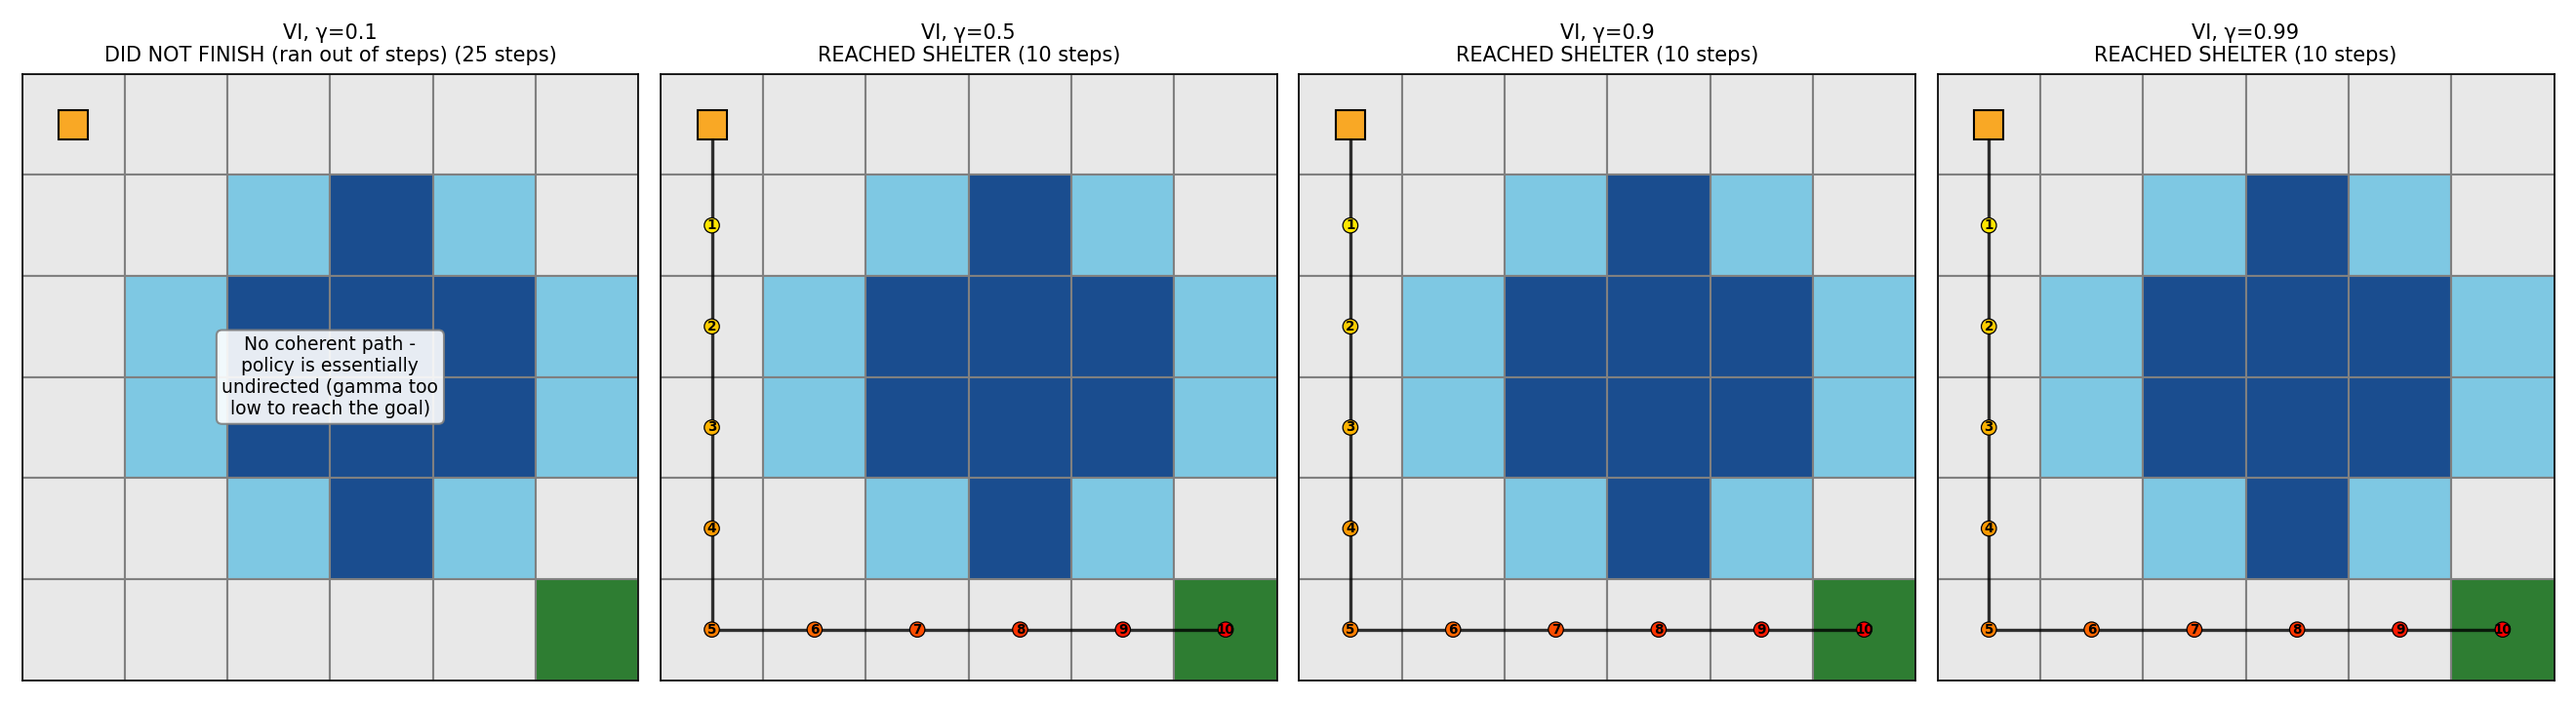
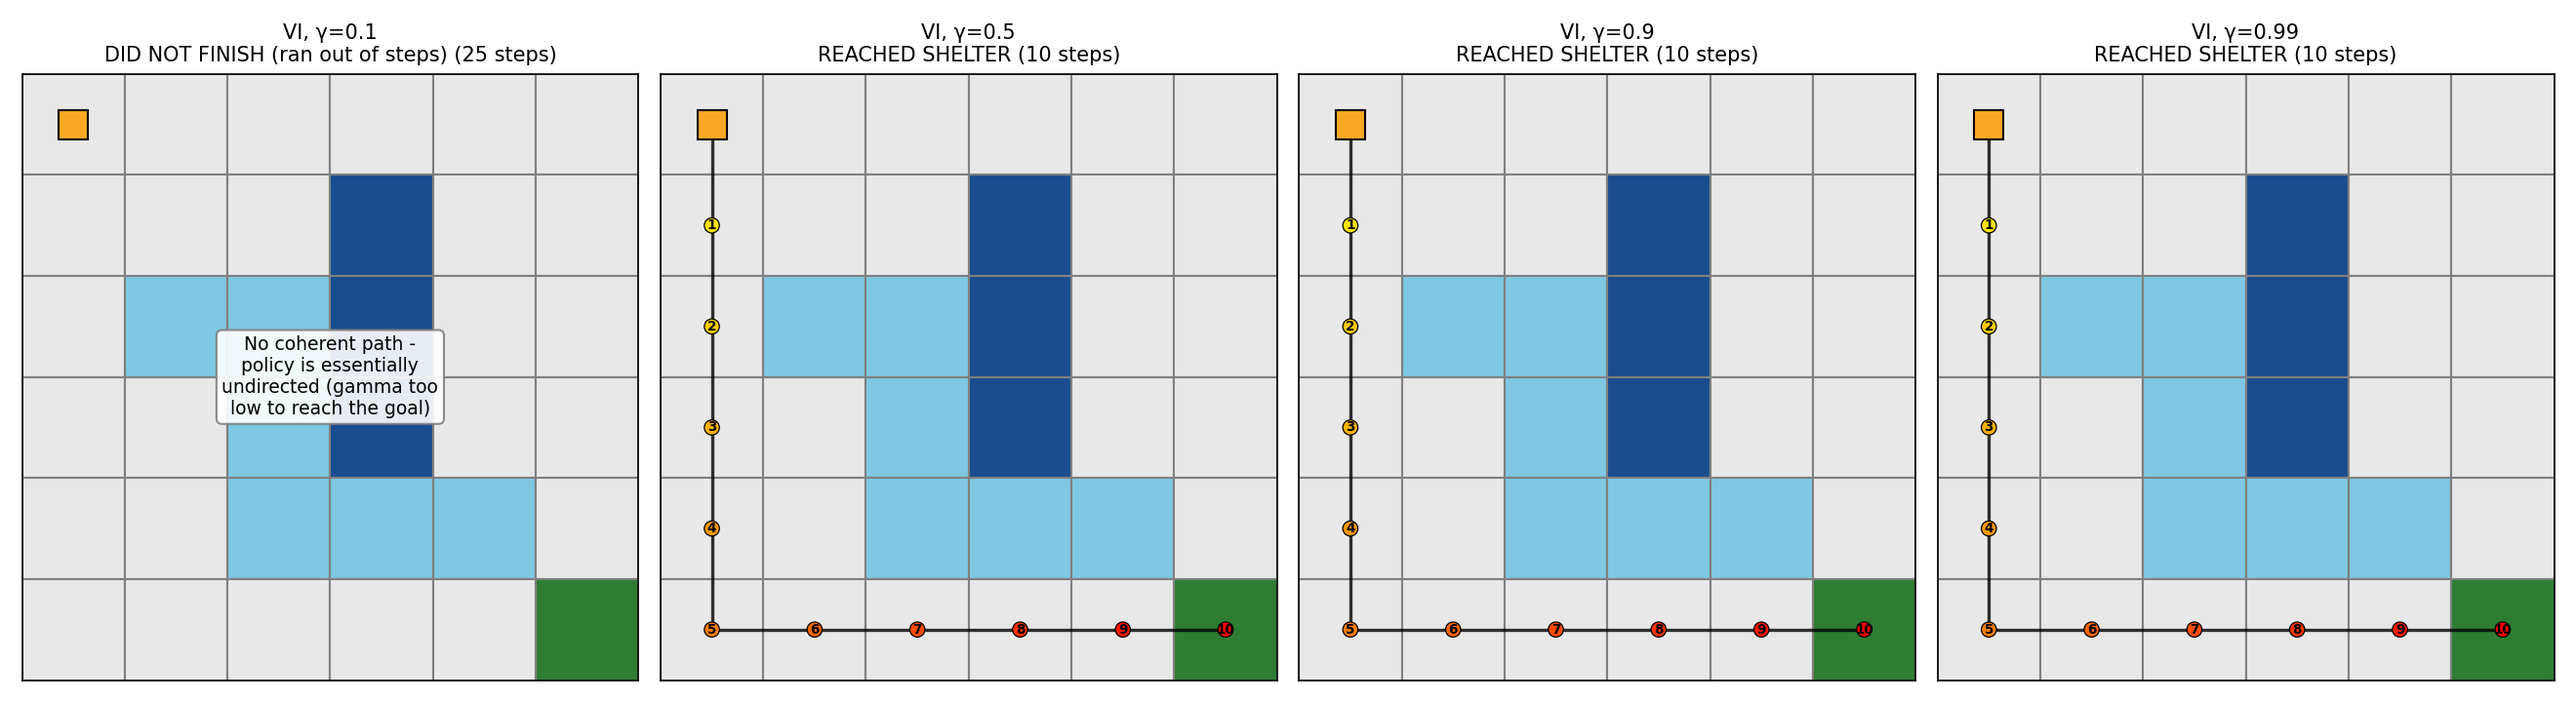
lab 4 grid modify

diff --git a/lab/lab_4/flood_rescue_rl.py b/lab/lab_4/flood_rescue_rl.py
@@ -38,8 +38,23 @@ GRID_SIZE = 6
 START = (0, 0)
 GOAL = (5, 5)
 
-DEEP_WATER = {(1, 3), (2, 2), (2, 3), (2, 4), (3, 2), (3, 3), (3, 4), (4, 3)}
-SHALLOW_WATER = {(1, 2), (1, 4), (2, 1), (2, 5), (3, 1), (3, 5), (4, 2), (4, 4)}
+DEEP_WATER = {
+    (1, 3),
+    (2, 3),
+    (3, 3)
+}
+
+SHALLOW_WATER = {
+    (2, 1),
+    (2, 2),
+    (3, 2),
+    (4, 2),
+    (4, 3),
+    (4, 4)
+}
+
+# DEEP_WATER = {(1, 3), (2, 2), (2, 3), (2, 4), (3, 2), (3, 3), (3, 4), (4, 3)}
+# SHALLOW_WATER = {(1, 2), (1, 4), (2, 1), (2, 5), (3, 1), (3, 5), (4, 2), (4, 4)}
 
 ACTIONS = ["up", "down", "left", "right"]
 ACTION_MOVES = {
@@ -50,7 +65,7 @@ ACTION_MOVES = {
 }
 
 STEP_REWARD = -0.04
-SHALLOW_REWARD = -0.3
+SHALLOW_REWARD = -0.05  #0.3
 DEEP_REWARD = -10
 GOAL_REWARD = 10
 
